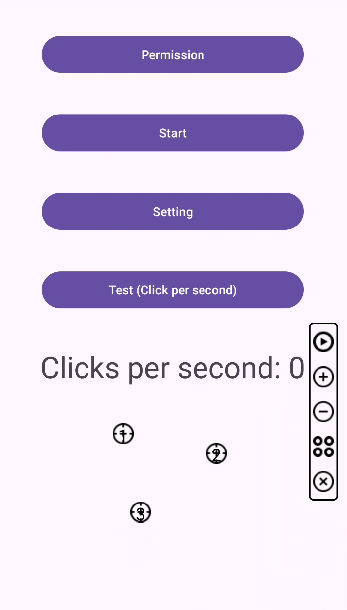
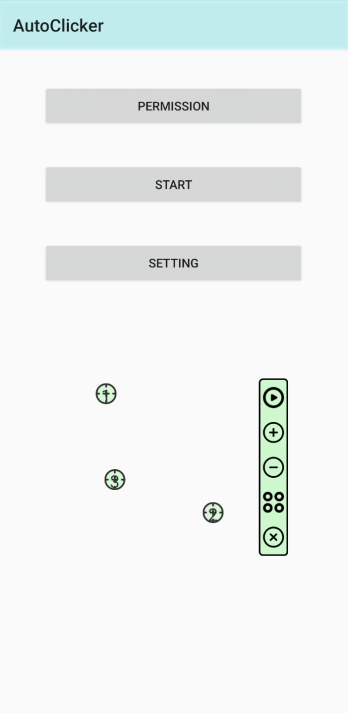
Updata README.md

diff --git a/README.md b/README.md
@@ -7,7 +7,8 @@
 - There are only five functions currently.
 - Android Studio Koala | 2024.1.1 Patch 2 (This is the current version.)  
 <p>
-  <img src="/image/screenshot1.png" alt="Image 1" width="45%" />
+  <img src="/image/screenshot1.png" alt="Image 1" />
+  <img src="/image/screenshot2.png" alt="Image 1" />
 </p>
 
 
